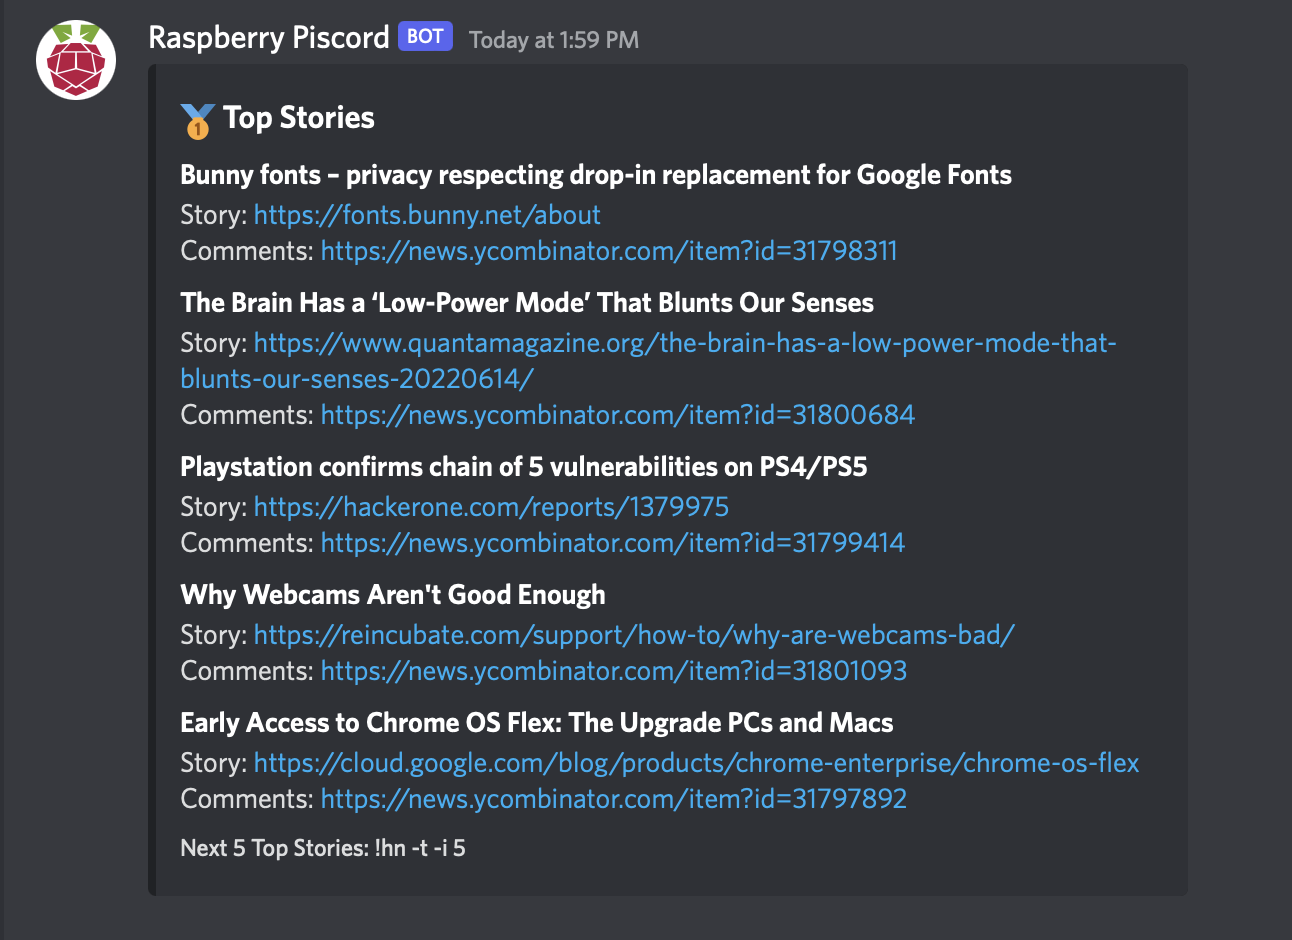
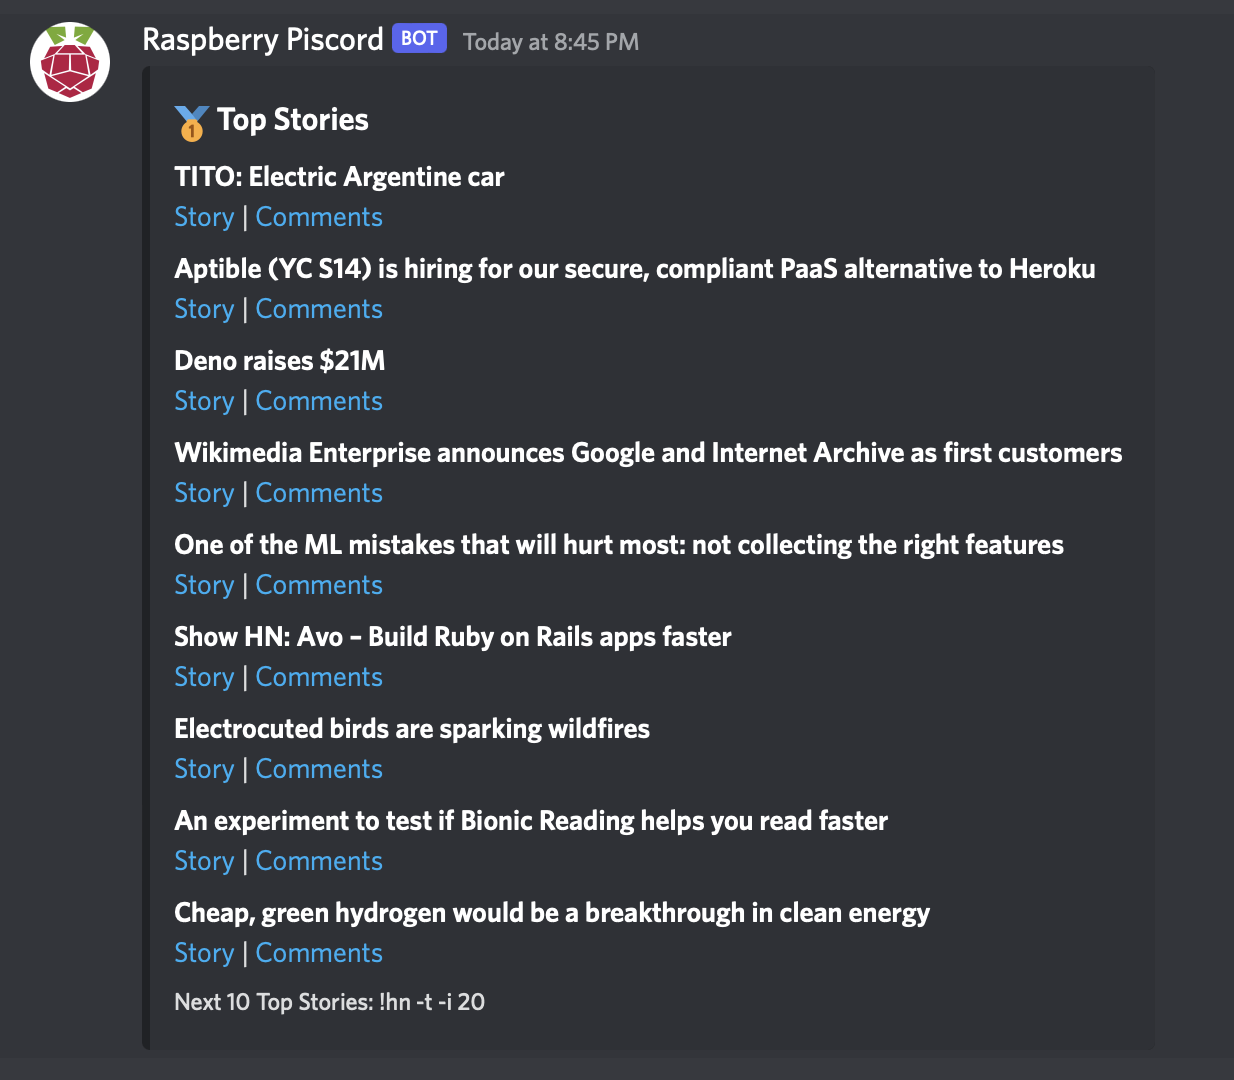
PI-000 - Enhance stories/comments links

Changed region(s): [[0.1232, 0.0926, 0.9238, 0.9564], [0.1232, 0.0, 0.5235, 0.0617], [0.0, 0.0, 0.0924, 0.1234]]

diff --git a/src/command-handlers/hacker-news.command.ts b/src/command-handlers/hacker-news.command.ts
@@ -8,7 +8,7 @@ import { Message, MessageEmbed } from "discord.js";
 import HackerNewsAPI, { Story } from "../api/hacker-news.api";
 import {
   Flag,
-  STORY_LIMIT_SIZE,
+  DEFAULT_STORY_BATCH_SIZE,
   getArgByFlag,
   sanitizeNumber,
 } from "../helpers";
@@ -95,14 +95,14 @@ export default {
     const fields = filteredStories.map(({ title, url, comments }) => ({
       name: title,
       value: [
-        `Story: ${url}`,
-        ...[comments.url && `Comments: ${comments.url}`],
-      ],
+        `[Story](${url})`,
+        ...[comments.url && `[Comments](${comments.url})`],
+      ].join(" | "),
     }));
 
     const footer = {
-      text: `Next ${STORY_LIMIT_SIZE} ${title}: !hn -${category} -i ${
-        indexArg + STORY_LIMIT_SIZE
+      text: `Next ${DEFAULT_STORY_BATCH_SIZE} ${title}: !hn -${category} -i ${
+        indexArg + DEFAULT_STORY_BATCH_SIZE
       }`,
     };
 

diff --git a/src/api/hacker-news.api.ts b/src/api/hacker-news.api.ts
@@ -6,7 +6,7 @@ import axios from "axios";
 
 /* --------------------------------- CUSTOM --------------------------------- */
 import CacheStore from "../cache";
-import { STORY_LIMIT_SIZE } from "../helpers";
+import { DEFAULT_STORY_BATCH_SIZE } from "../helpers";
 
 /* -------------------------------------------------------------------------- */
 /*                                    TYPES                                   */
@@ -66,7 +66,7 @@ const getStoriesIds = async (category: Category): Promise<string[]> => {
 
 const getStories = async (
   cursor = 0,
-  limit = STORY_LIMIT_SIZE,
+  limit = DEFAULT_STORY_BATCH_SIZE,
   category: Category
 ) => {
   const storiesIds = await getStoriesIds(category);

diff --git a/src/helpers/index.ts b/src/helpers/index.ts
@@ -14,7 +14,7 @@ export interface Flag {
 /* -------------------------------------------------------------------------- */
 /*                                  CONSTANTS                                 */
 /* -------------------------------------------------------------------------- */
-export const STORY_LIMIT_SIZE = 5;
+export const DEFAULT_STORY_BATCH_SIZE = 10;
 
 /* -------------------------------------------------------------------------- */
 /*                              HELPER FUNCTIONS                              */

diff --git a/README.md b/README.md
@@ -43,12 +43,12 @@ Shows available commands.
 
 ### !hn
 
-Get top 5 recent Hacker News stories.
+Get top 10 Hacker News stories of the day.
 
 | Flag | Argument           | Description                                            |
 | ---- | ------------------ | ------------------------------------------------------ |
 | -t   | -                  | Get HackerNews Top Stories (Default).                  |
 | -b   | -                  | Get HackerNews Best Stories.                           |
 | -n   | -                  | Get HackerNews Most Recent Stories.                    |
-| -i   | \<Numerical Index> | Starting point to fetch next 5 HackerNews Stories.     |
+| -i   | \<Numerical Index> | Starting point to fetch next 10 HackerNews Stories.    |
 | -f   | \<Filter>          | Filter HackerNews Stories by title with provided text. |
